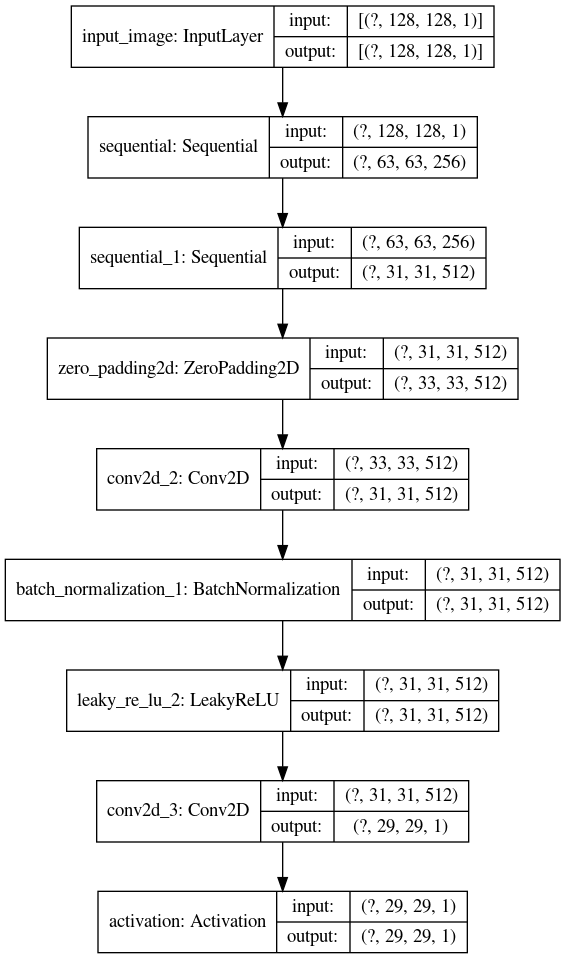
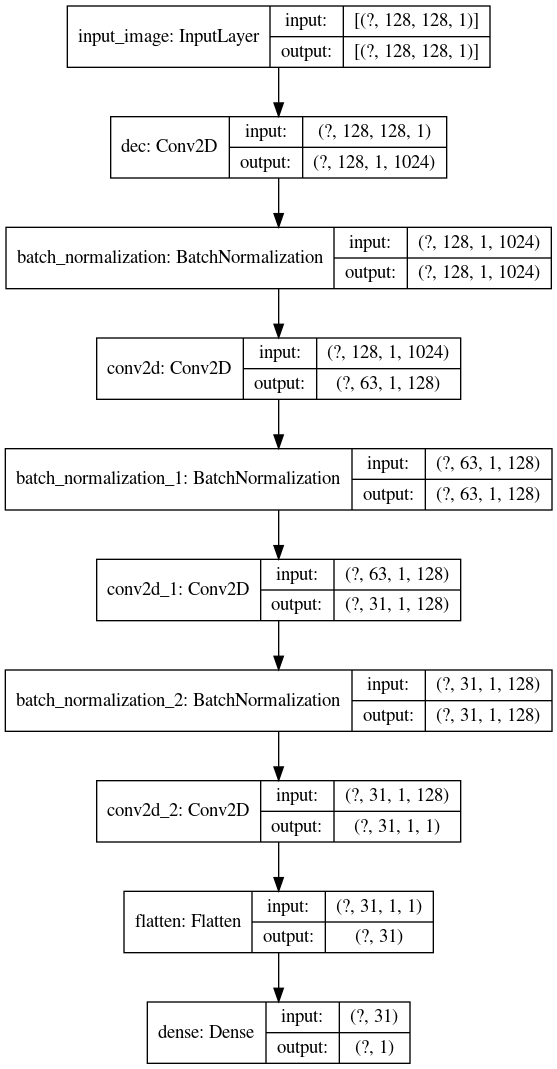
update

Changed region(s): [[0.0, 0.0, 1.0, 0.9979], [0.1526, 0.8165, 0.1831, 0.877]]

diff --git a/model.py b/model.py
@@ -200,13 +200,13 @@ def downsample(filters, size, apply_batchnorm=True):
     result.add(tf.keras.layers.LeakyReLU())
     return result
 
-def make_discriminator_model(len_low_size=16, scale=4):
-    '''PatchGAN 1 pixel of output represents X pixels of input: https://github.com/junyanz/pytorch-CycleGAN-and-pix2pix/issues/39
+'''def make_discriminator_model(len_low_size=16, scale=4):
+    ''''''PatchGAN 1 pixel of output represents X pixels of input: https://github.com/junyanz/pytorch-CycleGAN-and-pix2pix/issues/39
      The "70" is implicit, it's not written anywhere in the code but instead emerges as a mathematical consequence of the network architecture.
     The math is here: https://github.com/phillipi/pix2pix/blob/master/scripts/receptive_field_sizes.m
     compute input size from a given output size:
     f = @(output_size, ksize, stride) (output_size - 1) * stride + ksize; fix output_size as 1 
-    '''
+    ''''''
     len_high_size = int(len_low_size*scale)
     initializer = tf.random_normal_initializer(0., 0.02)
     inp = tf.keras.layers.Input(shape=[len_high_size, len_high_size, 1], name='input_image')
@@ -227,21 +227,21 @@ def make_discriminator_model(len_low_size=16, scale=4):
     last = tf.keras.layers.Conv2D(1, 3, strides=1, padding='valid', kernel_initializer=initializer,use_bias=True)(leaky_relu)
     last = tf.keras.layers.Activation('sigmoid')(last)
     #return tf.keras.Model(inputs=[inp, tar], outputs=last)
-    return tf.keras.Model(inputs=inp, outputs=last)
+    return tf.keras.Model(inputs=inp, outputs=last)'''
 
-'''def make_discriminator_model(len_low_size=16, scale=4):
-    ''''''PatchGAN 1 pixel of output represents X pixels of input: https://github.com/junyanz/pytorch-CycleGAN-and-pix2pix/issues/39
+def make_discriminator_model(len_low_size=16, scale=4):
+    '''PatchGAN 1 pixel of output represents X pixels of input: https://github.com/junyanz/pytorch-CycleGAN-and-pix2pix/issues/39
      The "70" is implicit, it's not written anywhere in the code but instead emerges as a mathematical consequence of the network architecture.
     The math is here: https://github.com/phillipi/pix2pix/blob/master/scripts/receptive_field_sizes.m
     compute input size from a given output size:
     f = @(output_size, ksize, stride) (output_size - 1) * stride + ksize; fix output_size as 1 
-    ''''''
+    '''
     len_high_size = int(len_low_size*scale)
     initializer = tf.random_normal_initializer(0., 0.2)
     inp = tf.keras.layers.Input(shape=[len_high_size, len_high_size, 1], name='input_image')
     dec = tf.keras.layers.Conv2D(1024, [1, len_high_size], strides=1, padding='valid', data_format="channels_last", 
                                     use_bias=True,
-                                    kernel_initializer=tf.random_normal_initializer(0., 1.0), 
+                                    kernel_initializer=tf.random_normal_initializer(0., 0.01), 
                                     name='dec')(inp)
     batchnorm = tf.keras.layers.BatchNormalization()(dec)
 
@@ -252,21 +252,20 @@ def make_discriminator_model(len_low_size=16, scale=4):
     batchnorm = tf.keras.layers.BatchNormalization()(conv)
     #leaky_relu = tf.keras.layers.LeakyReLU()(batchnorm)
 
-    conv = tf.keras.layers.Conv2D(32, [3, 1], strides=[2,1], padding='valid', data_format="channels_last", 
+    conv = tf.keras.layers.Conv2D(128, [3, 1], strides=[2,1], padding='valid', data_format="channels_last", 
                                     activation='relu', use_bias=True,
                                     kernel_initializer=initializer, 
                                     )(batchnorm)
     batchnorm = tf.keras.layers.BatchNormalization()(conv)
-    conv = tf.keras.layers.Conv2D(32, [1, 1], strides=[1,1], padding='same', data_format="channels_last", 
+    conv = tf.keras.layers.Conv2D(1, [1, 1], strides=[1,1], padding='same', data_format="channels_last", 
                                     activation=None, use_bias=True,
                                     kernel_initializer=initializer, 
                                     )(batchnorm)
 
-    last = tf.keras.layers.S
-    last = tf.keras.layers.Activation(activation='sigmoid')(last)
-    #last = tf.keras.layers.Dense(1, activation='sigmoid')(last)
-    #last = tf.keras.layers.Reshape((32, 32))(last)
-    return tf.keras.Model(inputs=inp, outputs=last)'''
+    last = tf.keras.layers.Flatten()(conv)
+    last = tf.keras.layers.Dense(1, activation='sigmoid')(last)
+    #last = tf.keras.layers.Reshape((31, 32))(last)
+    return tf.keras.Model(inputs=inp, outputs=last)
 
 def discriminator_bce_loss(real_output, fake_output):
     loss_object = tf.keras.losses.BinaryCrossentropy(from_logits=False)
@@ -467,12 +466,14 @@ def train(gen, dis, dataset, epochs, len_low_size, scale, test_dataset=None):
         with train_summary_D_writer.as_default():
             tf.summary.scalar('loss_dis', discriminator_log.result(), step=epoch)
             mpy = demo_disc_generated.numpy()
-            m = np.squeeze(mpy[:,:,:,0])
+            #m = np.squeeze(mpy[:,:,:])
+            m = np.squeeze(mpy).reshape((4,4))
             fig = plot_prob_matrix(m)
             image = plot_to_image(fig)
             tf.summary.image(name='dis_gen', data=image, step=epoch)
             mpy = demo_disc_true.numpy()
-            m = np.squeeze(mpy[:,:,:,0])
+            #m = np.squeeze(mpy[:,:,:])
+            m = np.squeeze(mpy).reshape((4,4))
             fig = plot_prob_matrix(m)
             image = plot_to_image(fig)
             tf.summary.image(name='dis_true', data=image, step=epoch)
@@ -506,10 +507,13 @@ def plot_prob_matrix(m):
             ax.set_title(txt)
             im.set_clim(0.001, 1.001)
         plt.tight_layout()
-    '''else:
+    else:
         plt.matshow(m, cmap='RdBu_r')
         plt.colorbar()
-        plt.tight_layout()'''
+        plt.clim(0.001, 1.001)
+        #txt = "mean prob is {:5.4f}".format(np.mean(m[i,:,:]))
+        #plt.title(txt)
+        plt.tight_layout()
     return figure
 
 def plot_to_image(figure):
